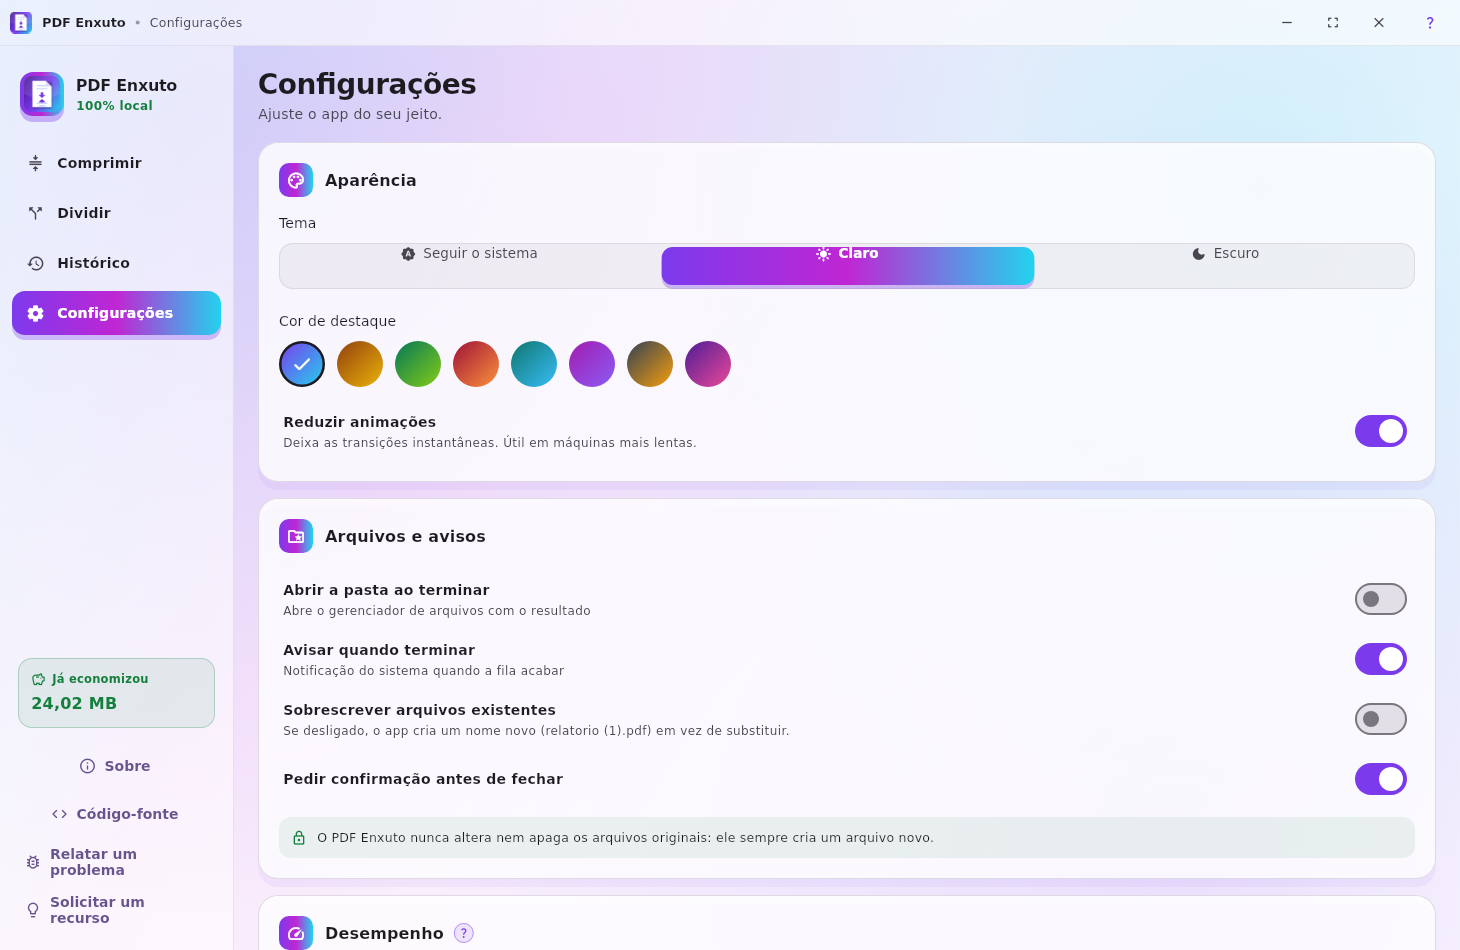
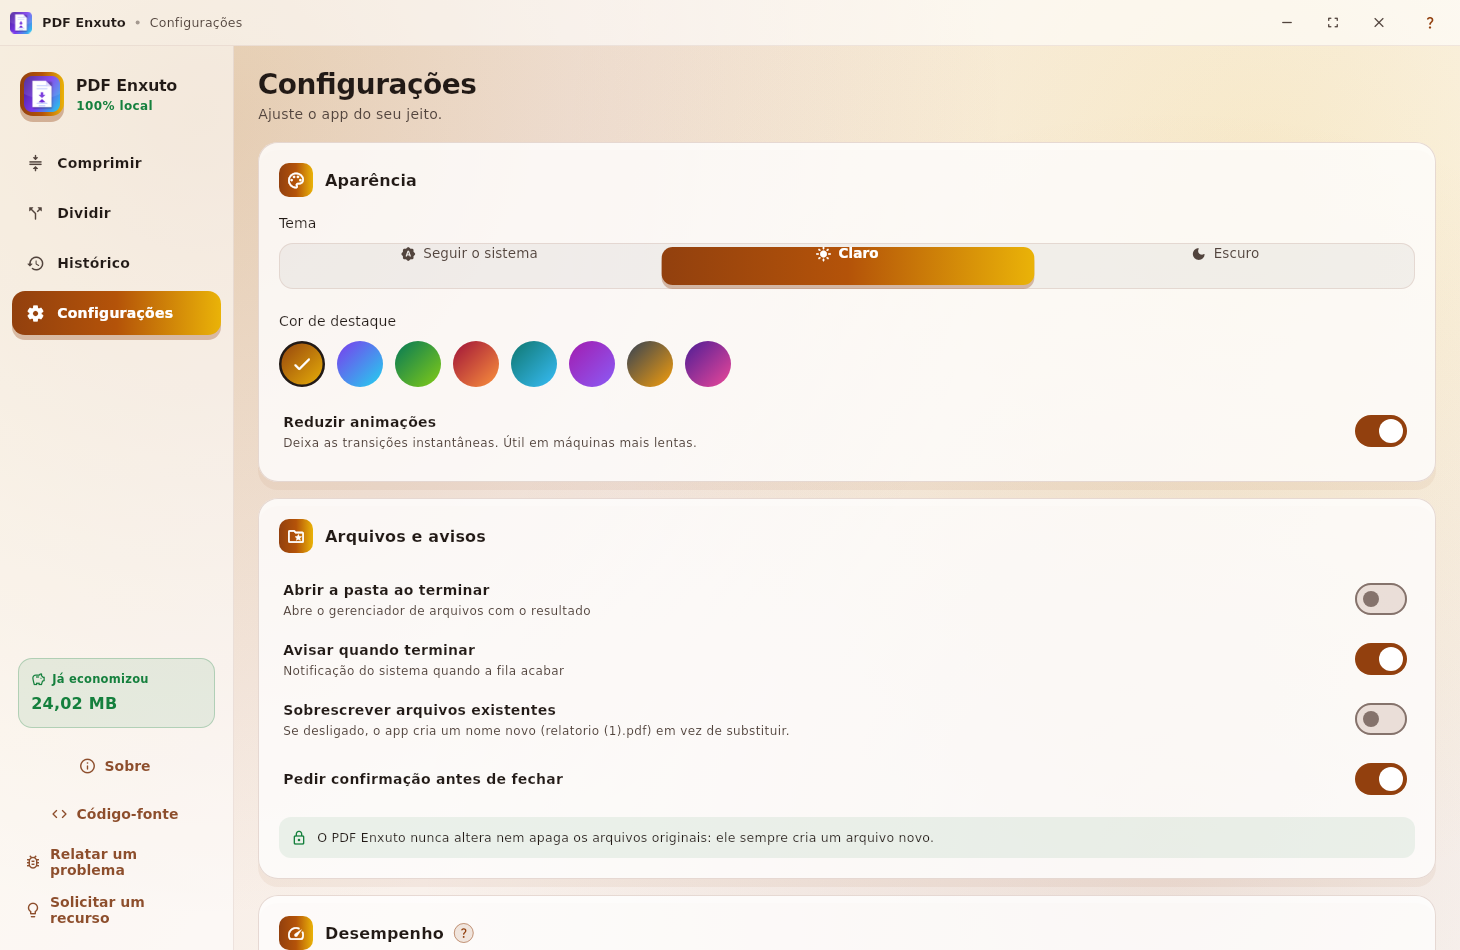
Paleta Papel & Ouro como padrao e correcao do texto no tema escuro
- A tipografia do tema escuro usava a variacao de fundo claro, deixando
  textos escuros sobre fundo escuro (nome dos arquivos na fila)
- Paleta padrao escolhida pelo usuario, com as demais nas configuracoes
- Captura do tema escuro no conjunto de testes visuais

diff --git a/lib/theme/app_theme.dart b/lib/theme/app_theme.dart
@@ -109,8 +109,9 @@ class AccentPalette {
   List<Color> get gradiente => [primaria, terciaria, secundaria];
 
   static const List<AccentPalette> todas = [
-    AccentPalette('Aurora', Color(0xFF7C3AED), Color(0xFFC026D3), Color(0xFF22D3EE)),
+    // A primeira da lista é a paleta padrão do aplicativo.
     AccentPalette('Papel & Ouro', Color(0xFF92400E), Color(0xFFB45309), Color(0xFFEAB308)),
+    AccentPalette('Aurora', Color(0xFF7C3AED), Color(0xFFC026D3), Color(0xFF22D3EE)),
     AccentPalette('Esmeralda', Color(0xFF047857), Color(0xFF10B981), Color(0xFF84CC16)),
     AccentPalette('Cereja', Color(0xFF9F1239), Color(0xFFE11D48), Color(0xFFFB923C)),
     AccentPalette('Petróleo', Color(0xFF0F766E), Color(0xFF0891B2), Color(0xFF38BDF8)),
@@ -352,8 +353,18 @@ class AppTheme {
   }
 
   static TextTheme _textos(ColorScheme scheme) {
-    final base = Typography.material2021(colorScheme: scheme).black;
-    return base.copyWith(
+    // A tipografia certa para cada brilho: usar a "clara" no tema escuro é o
+    // que mantém o texto legível sobre o fundo escuro.
+    final tipografia = Typography.material2021(colorScheme: scheme);
+    final base = scheme.brightness == Brightness.dark
+        ? tipografia.white
+        : tipografia.black;
+    return base
+        .apply(
+          bodyColor: scheme.onSurface,
+          displayColor: scheme.onSurface,
+        )
+        .copyWith(
       displaySmall: base.displaySmall?.copyWith(
         fontWeight: FontWeight.w700,
         letterSpacing: -0.8,

diff --git a/test/golden_ui_test.dart b/test/golden_ui_test.dart
@@ -258,6 +258,14 @@ void main() {
     );
   });
 
+  testWidgets('captura do tema escuro', (tester) async {
+    final estado = await prepararEstado(tester);
+    await estado.atualizarConfig(
+      estado.config.copyWith(tema: ThemeMode.dark),
+    );
+    await capturar(tester, estado, 'tela-escura');
+  });
+
   testWidgets('capturas das paletas de cor', (tester) async {
     final estado = await prepararEstado(tester, comFila: false);
 
